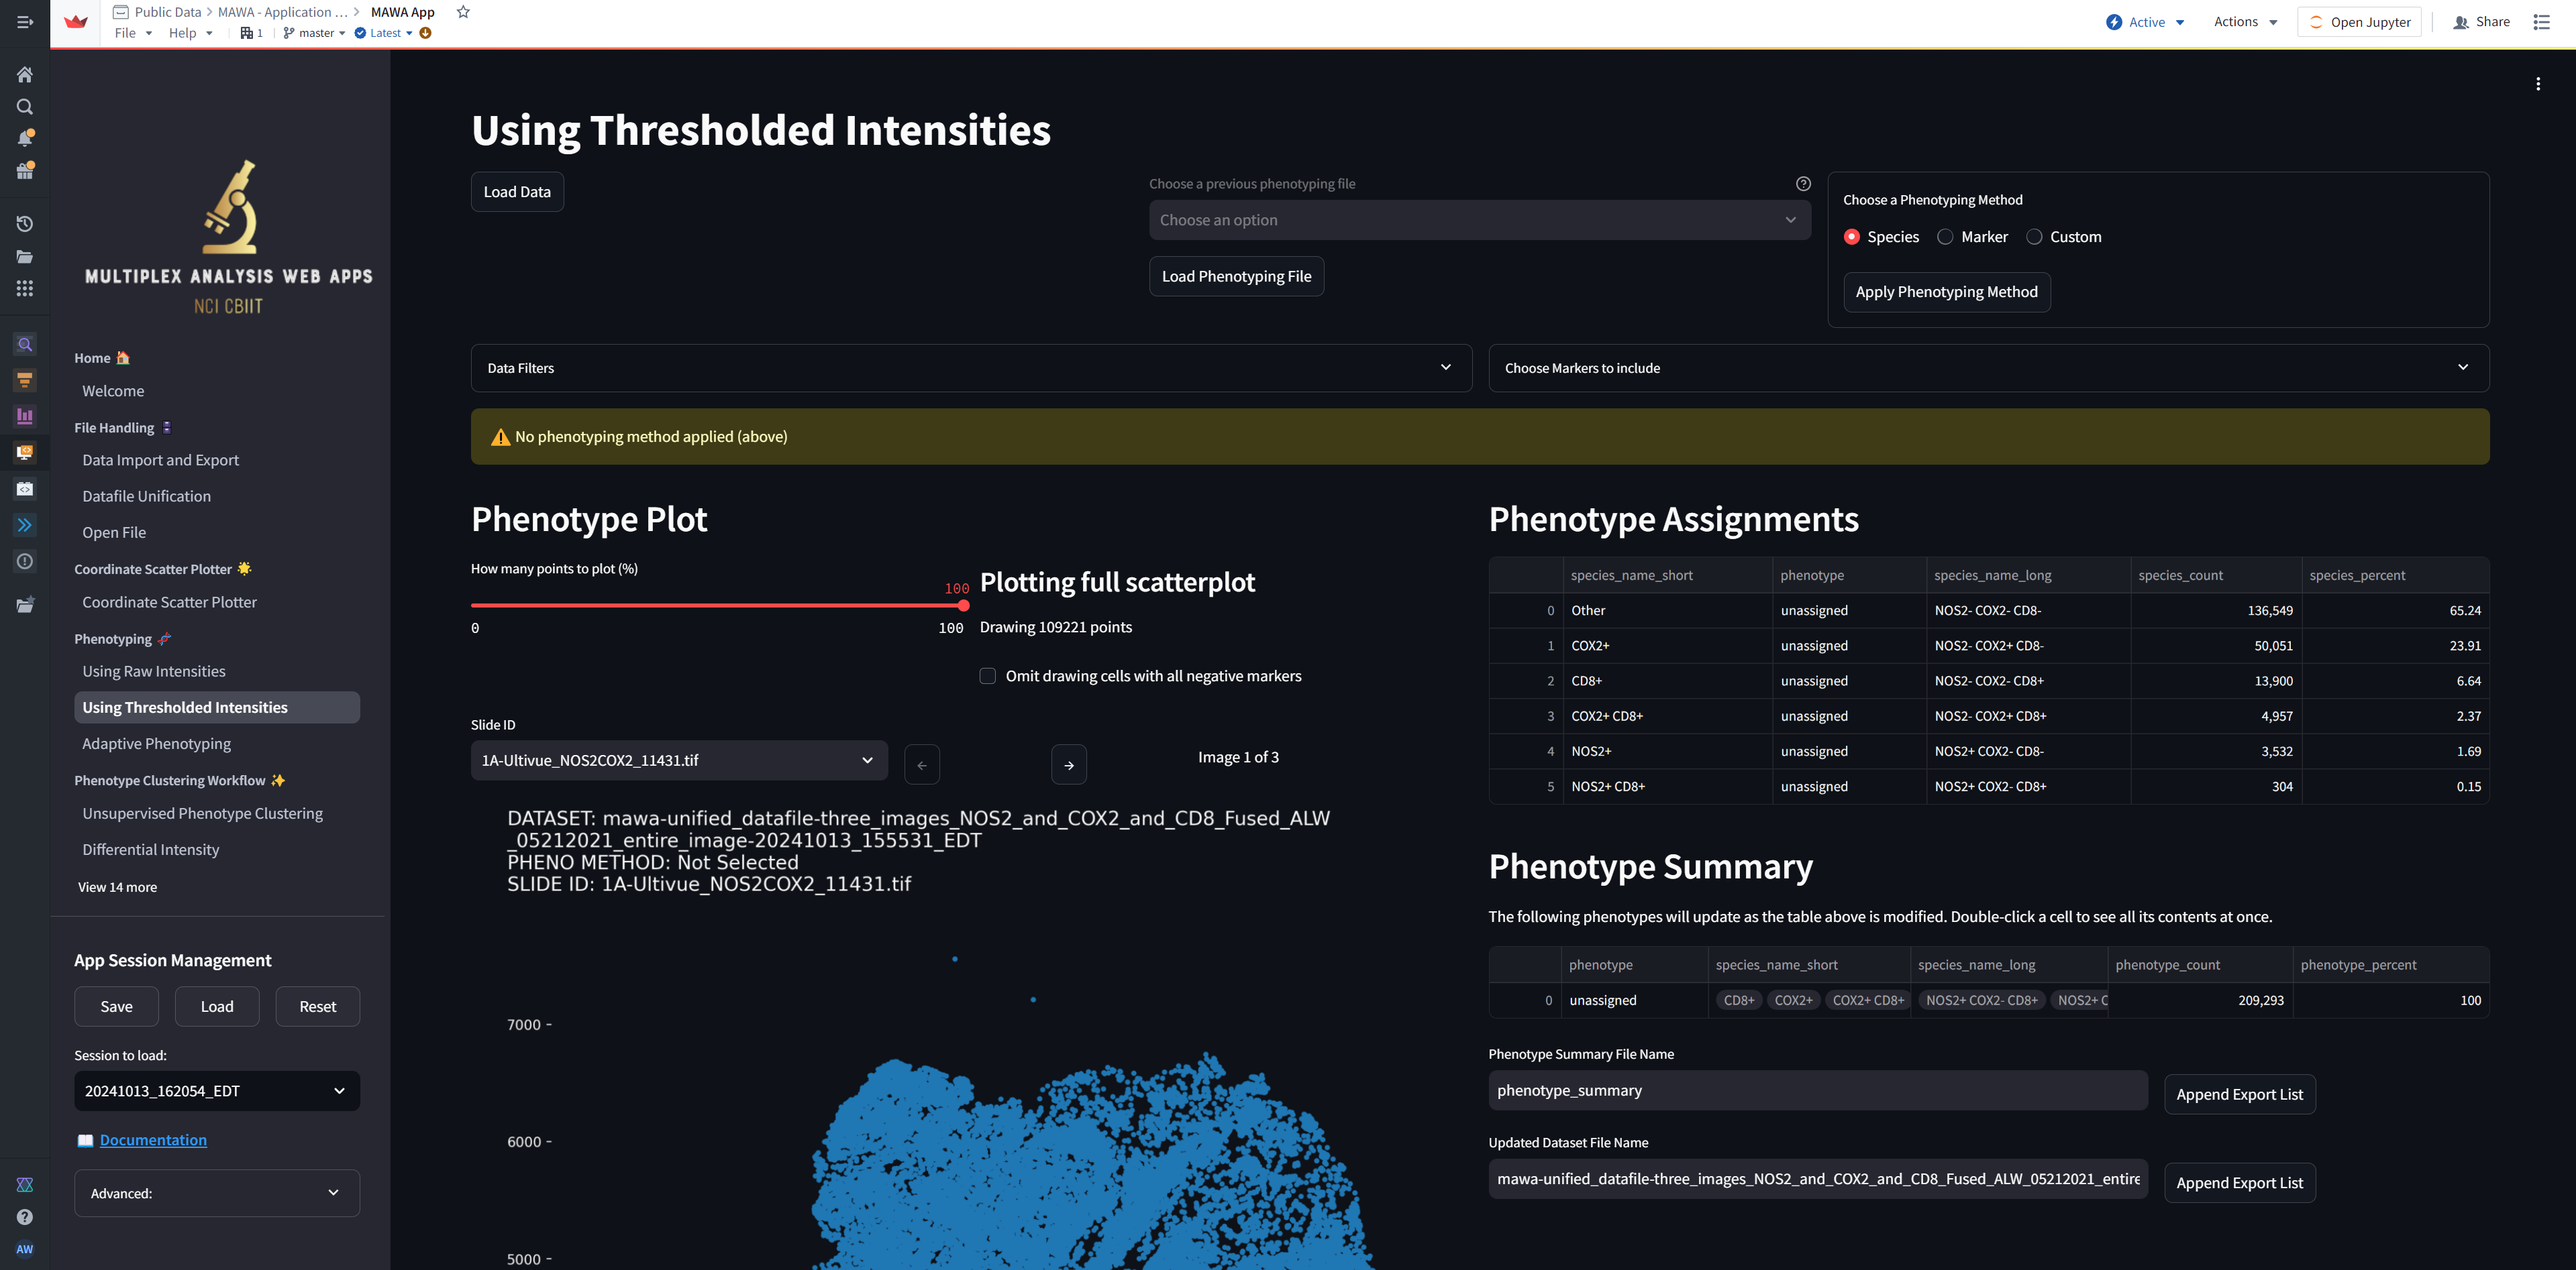
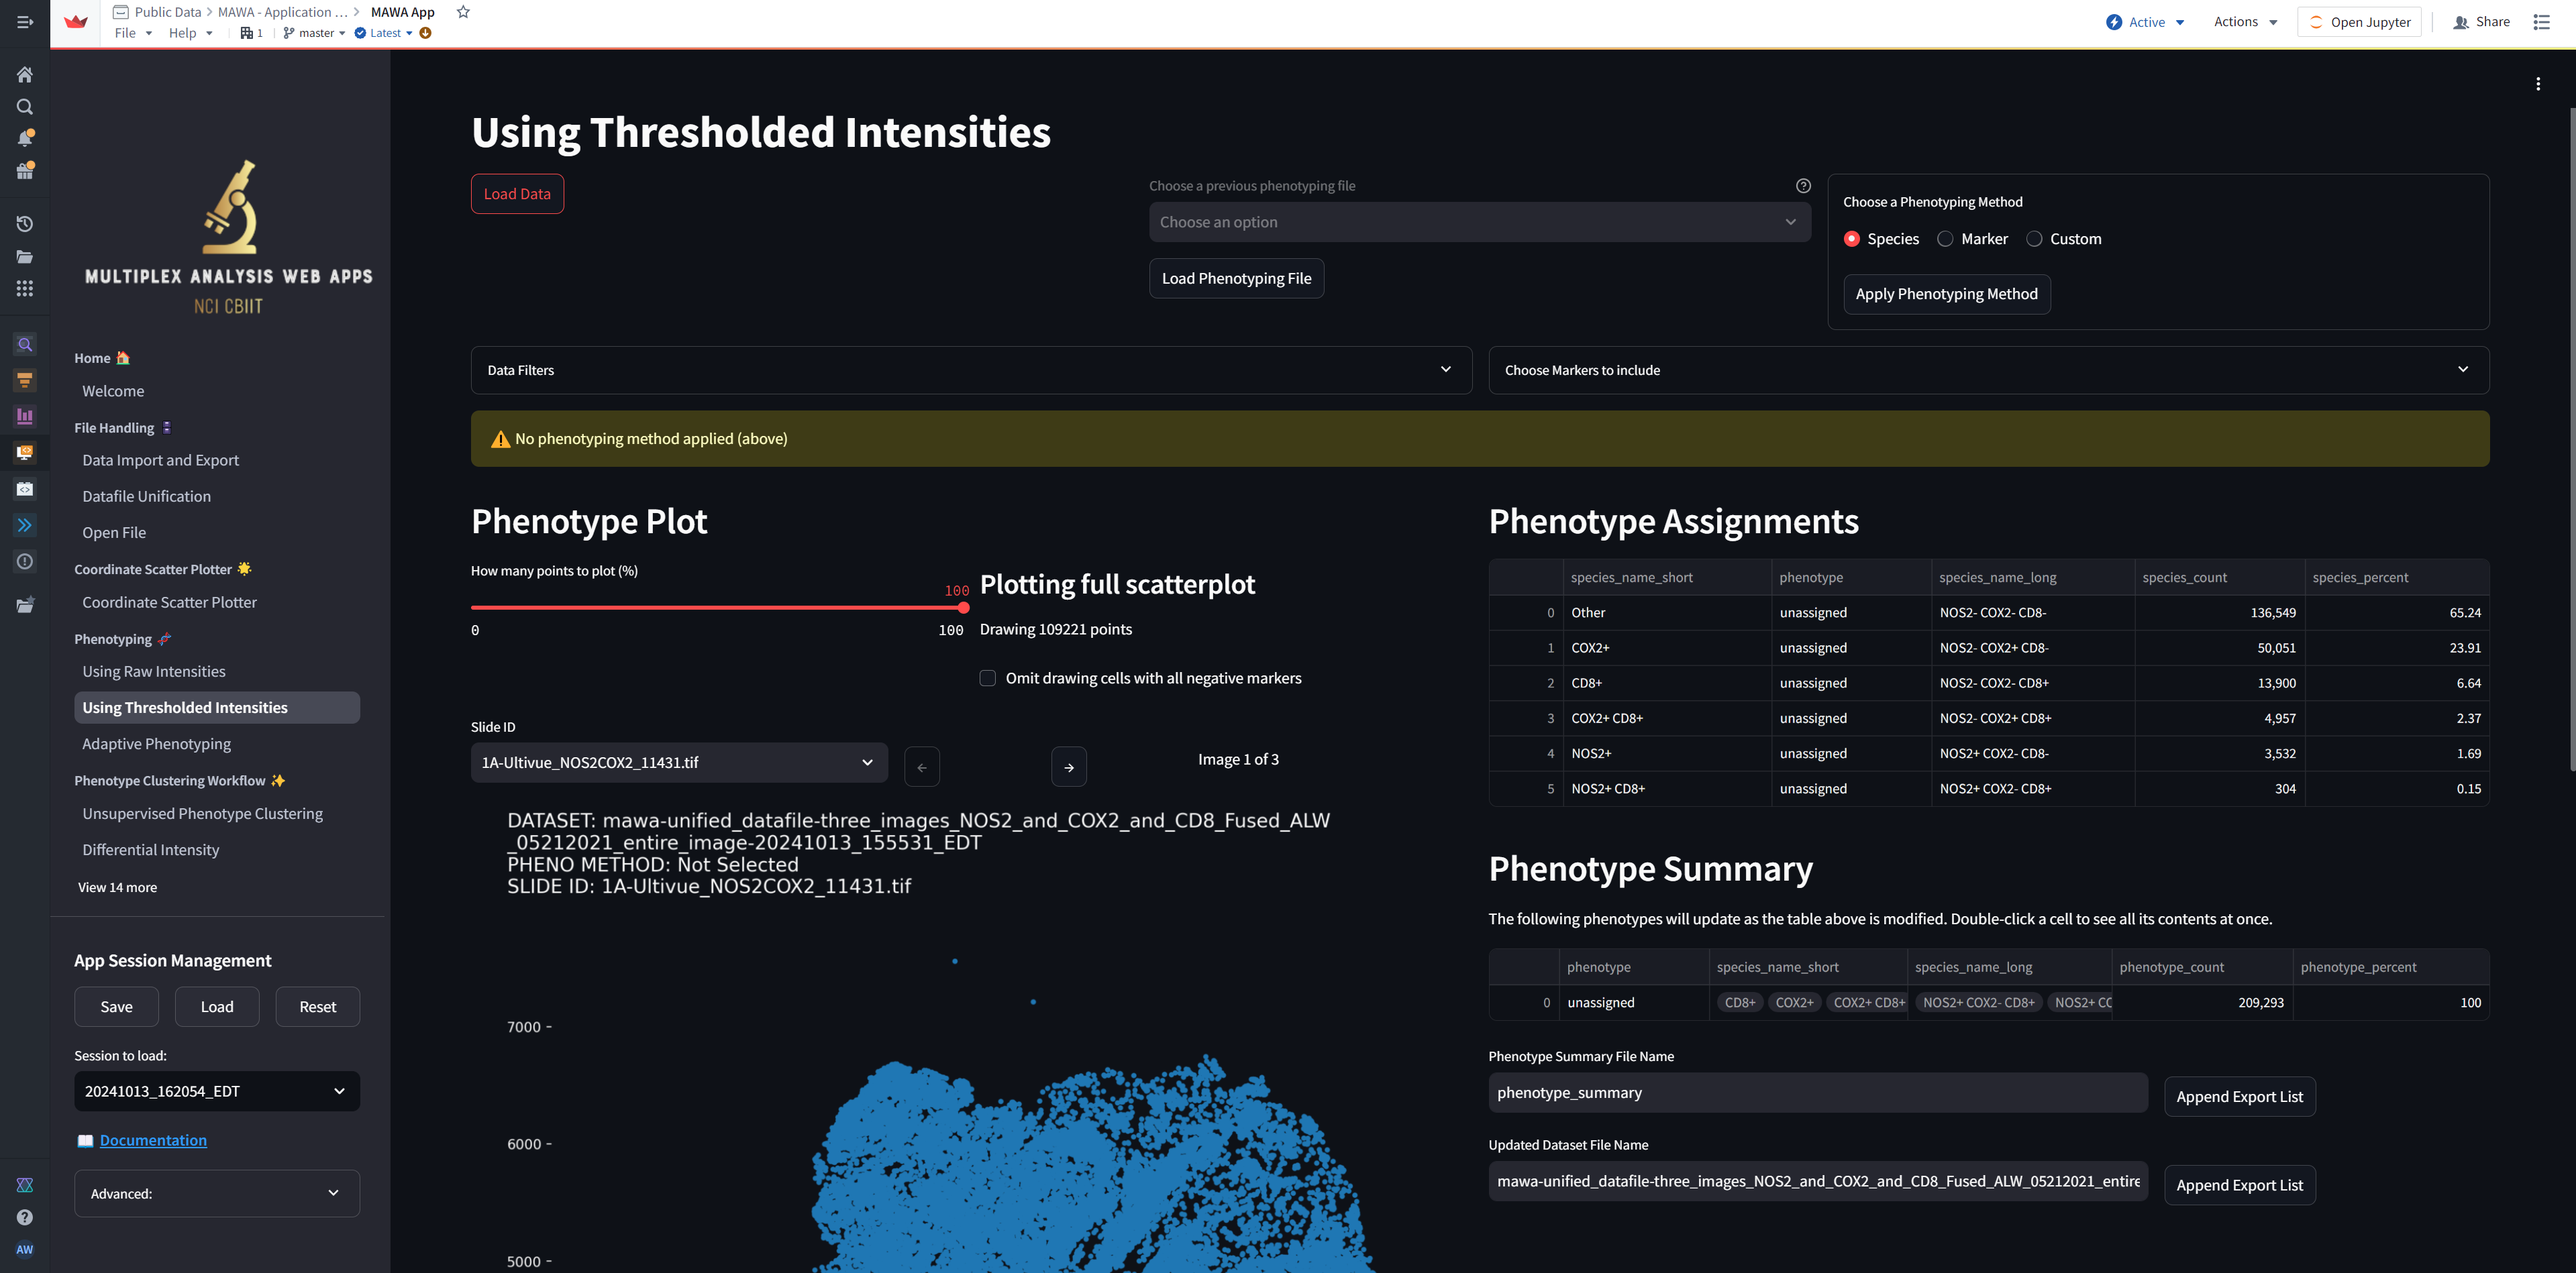
Update session 1 script

diff --git a/session_1/session_1.md b/session_1/session_1.md
@@ -237,11 +237,11 @@ Keep in mind that it only makes sense to color the cells by the values in a sing
 
 ### Using Thresholded Intensities
 
-To use multiple positivity columns of already-"thresholded" intensities--rather than "raw" intensities--to phenotype the cells, we will click on the "Using Thresholded Intensities" page of the Phenotyping section of the sidebar:
+To use multiple positivity columns of already-"thresholded" intensities--rather than "raw" intensities--to phenotype the cells, we will click on the "Using Thresholded Intensities" page of the Phenotyping section in the sidebar:
 
 ![using_thresholded_intensities](full/using_thresholded_intensities.png)
 
-Press the Load Data button to load the dataset into the thresholded phenotyper:
+Press the Load Data button at the top left to load the dataset into the thresholded phenotyper:
 
 ![load_data](full/load_data.png)
 
